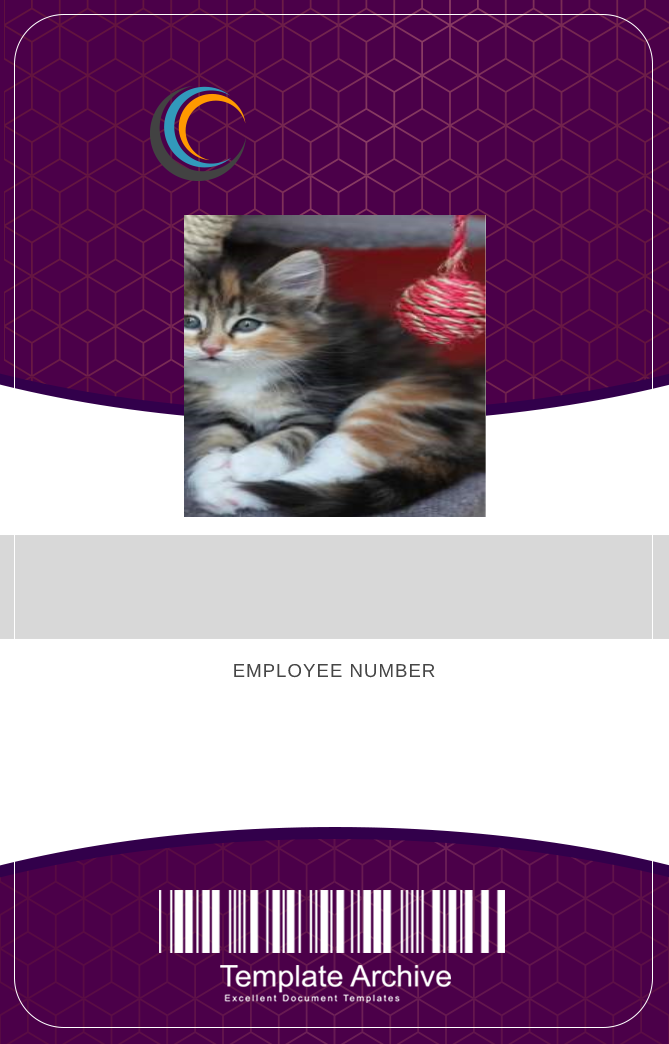
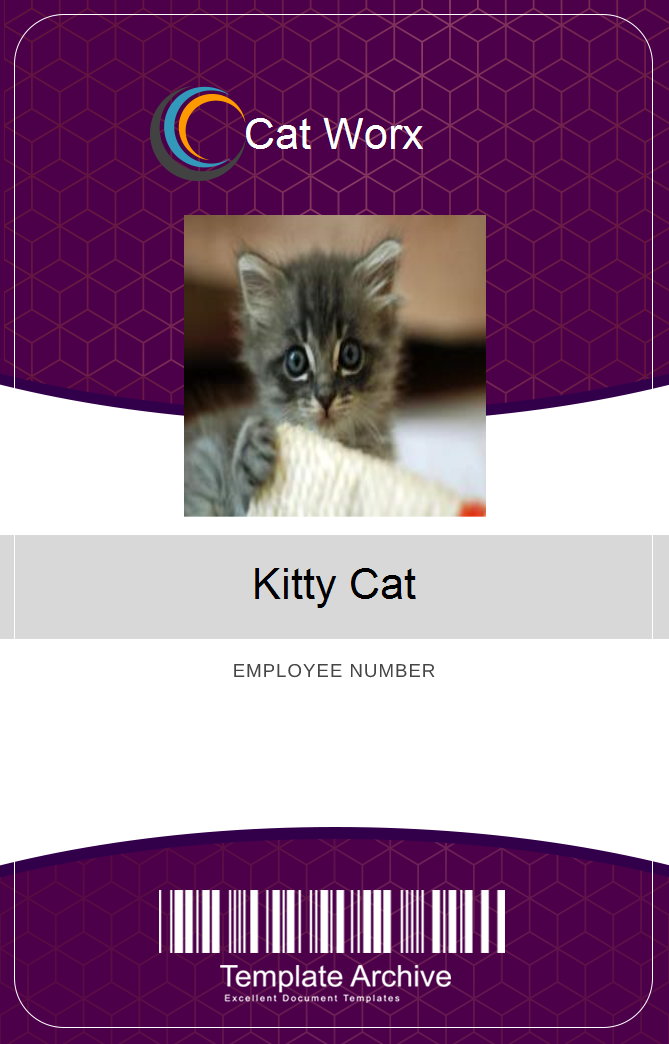
badges now show all relevant data

Changed region(s): [[0.2691, 0.1839, 0.7474, 0.5824], [0.3587, 0.092, 0.6278, 0.1533]]

diff --git a/Util.cs b/Util.cs
@@ -63,13 +63,20 @@ namespace CatWorx.BadgeMaker
             int EMPLOYEE_ID_WIDTH = BADGE_WIDTH;
             int EMPLOYEE_ID_HEIGHT = 100;
 
-
+            // Graphics objects
+            StringFormat format = new StringFormat();
+            format.Alignment = StringAlignment.Center;
+            int FONT_SIZE = 32;
+            Font font = new Font("Arial", FONT_SIZE);
+            Font monoFont = new Font("Courier New", FONT_SIZE);
+            SolidBrush brush = new SolidBrush(Color.Black);
 
             // instance of WebClient is disposed after code in the block has run
             using (WebClient client = new WebClient())
             {
                 for (int i = 0; i < employees.Count; i++)
                 {
+
                     // Stream employeeStream = client.OpenRead(employees[i].GetPhotoUrl());
                     // Image photo = Image.FromStream(employeeStream);
                     // Combines the two previous lines
@@ -79,12 +86,17 @@ namespace CatWorx.BadgeMaker
                     Graphics graphic = Graphics.FromImage(badge);
                     graphic.DrawImage(background, new Rectangle(0, 0, BADGE_WIDTH, BADGE_HEIGHT));
                     graphic.DrawImage(photo, new Rectangle(PHOTO_START_X, PHOTO_START_Y, PHOTO_WIDTH, PHOTO_HEIGHT));
-                    badge.Save("data/employeeBadge.png");
-                    // background.Save("data/employeeBadge" + employees[i].GetId() + ".png");
+
+                    graphic.DrawString(employees[i].GetCompanyName(), font, new SolidBrush(Color.White), new Rectangle(COMPANY_NAME_START_X, COMPANY_NAME_START_Y, BADGE_WIDTH, COMPANY_NAME_WIDTH), format);
+
+                    graphic.DrawString(employees[i].GetName(), font, brush, new Rectangle(EMPLOYEE_NAME_START_X, EMPLOYEE_NAME_START_Y, EMPLOYEE_NAME_WIDTH, EMPLOYEE_NAME_HEIGHT), format);
+
+                    graphic.DrawString(employees[i].GetId().ToString(), monoFont, brush, new Rectangle(EMPLOYEE_ID_START_X, EMPLOYEE_ID_START_Y, EMPLOYEE_ID_WIDTH, EMPLOYEE_ID_HEIGHT), format);
+
+                    badge.Save("data/employeeBadge" + employees[i].GetId() + ".png");
                 }
             }
-            // Image newImage = Image.FromFile("badge.png");
-            // newImage.Save("data/employeeBadge.png");
+
         }
     }
 }

diff --git a/Employee.cs b/Employee.cs
@@ -26,6 +26,10 @@ namespace CatWorx.BadgeMaker
         {
             return PhotoUrl;
         }
+        public string GetCompanyName()
+        {
+            return "Cat Worx";
+        }
 
     }
 }
